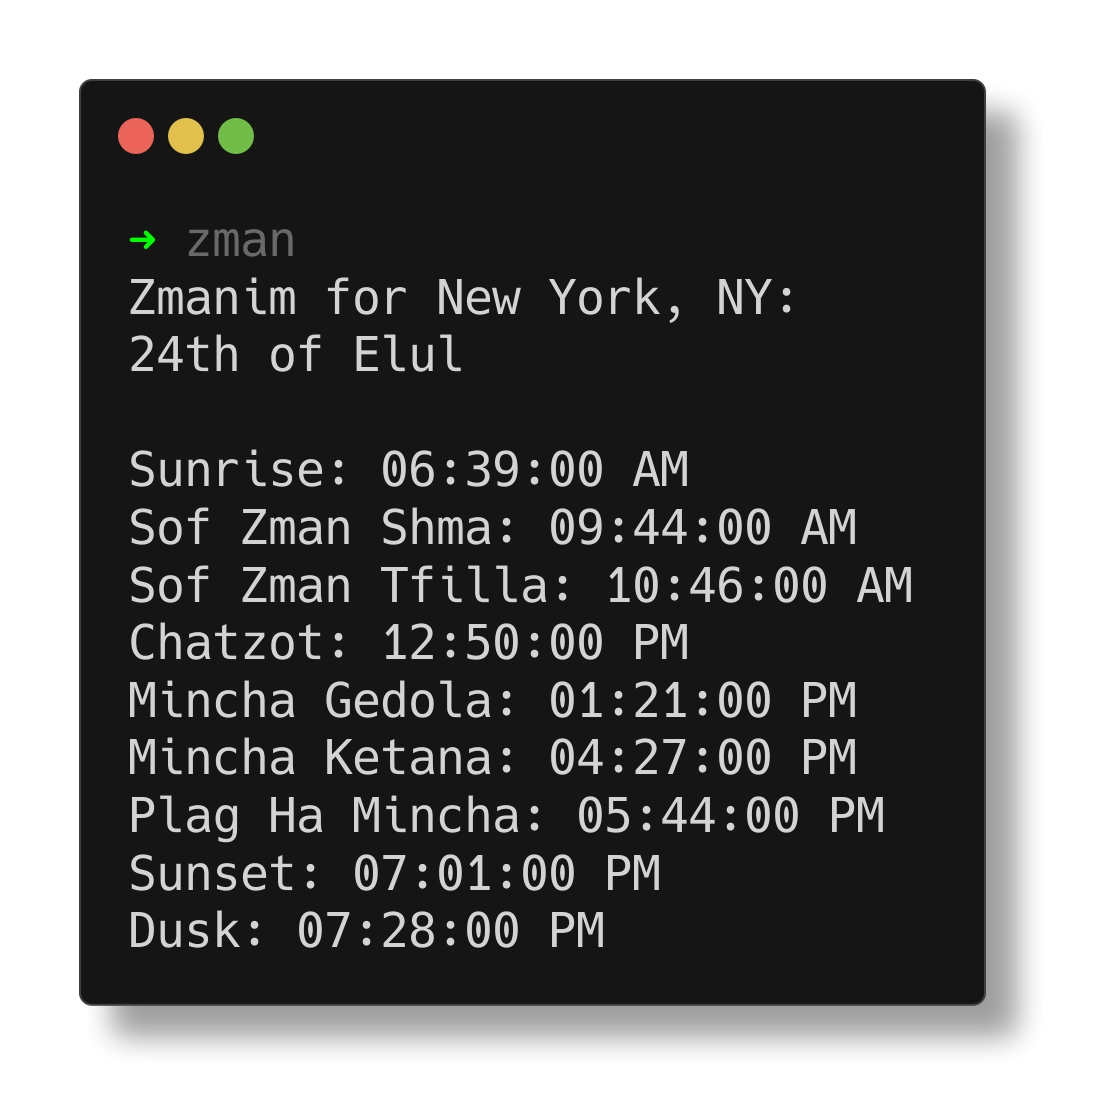
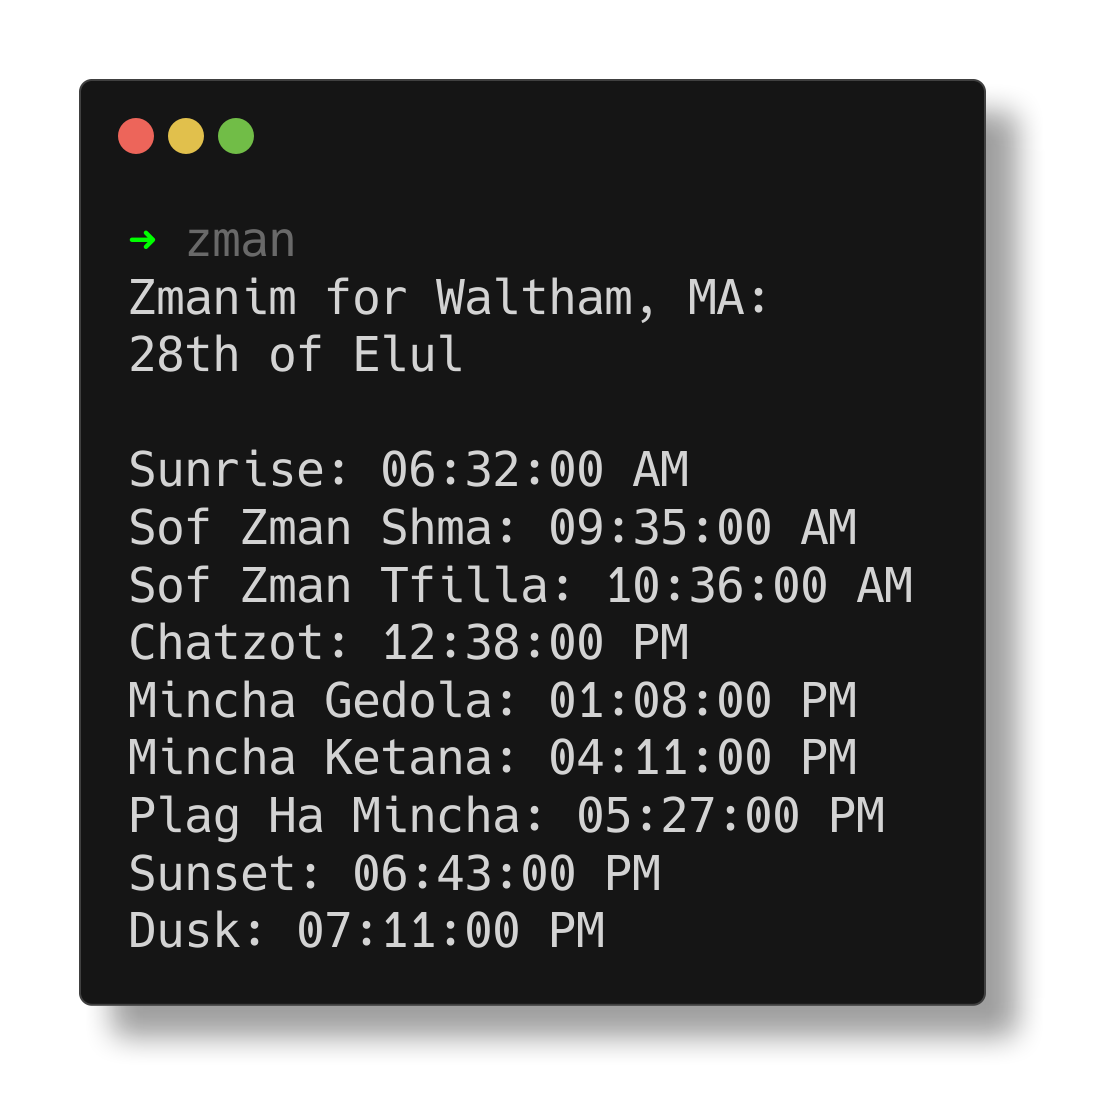
Updated date format and screenshots.sh as well as updated screenshots to reflect new date format

diff --git a/src/cli_zmanim/main.py b/src/cli_zmanim/main.py
@@ -36,9 +36,9 @@ def main():
         date_obj = datetime.date.today()
     else:
         try:
-            date_obj = datetime.datetime.strptime(args.date, "%Y-%m-%d")
+            date_obj = datetime.datetime.strptime(args.date, "%m/%d/%Y")
         except ValueError:
-            print("please enter a date in the format YYYY-MM-DD")
+            print("please enter a date in the format MM/DD/YYYY")
             sys.exit(1)
 
     config_dir = Path(os.environ.get("XDG_CONFIG_HOME", Path.home() / ".config")) / "zman"

diff --git a/README.md b/README.md
@@ -27,7 +27,7 @@ pip install .
 
 <img src="images/zman.png" height=300>
 
-- `zman -d` or `zman --date`allows you to get the zmanim on a particular date. The date should be formatted as YYYY-MM-DD
+- `zman -d` or `zman --date`allows you to get the zmanim on a particular date. The date should be formatted as MM/DD/YYYY.
 
 <img src="images/date.png" height=300>
 
